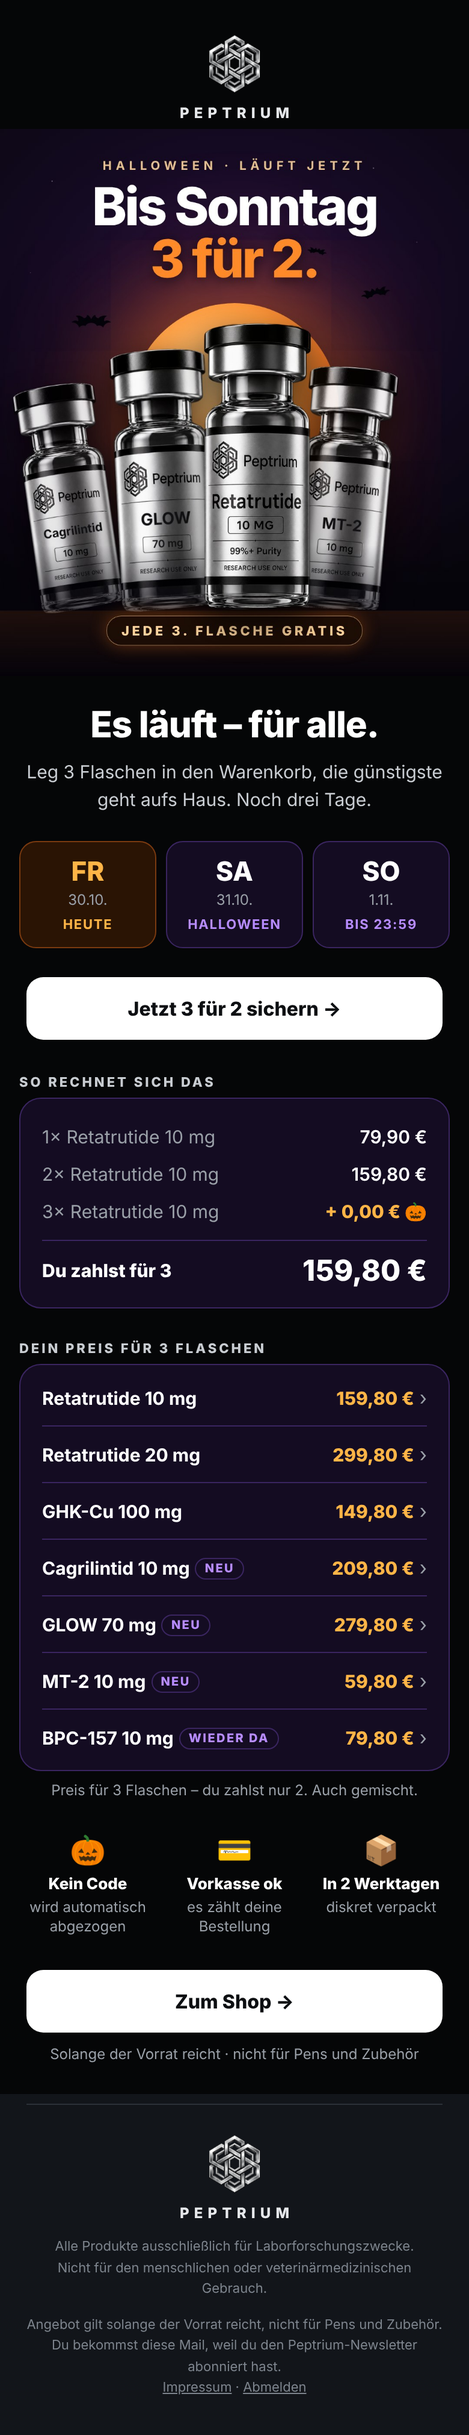
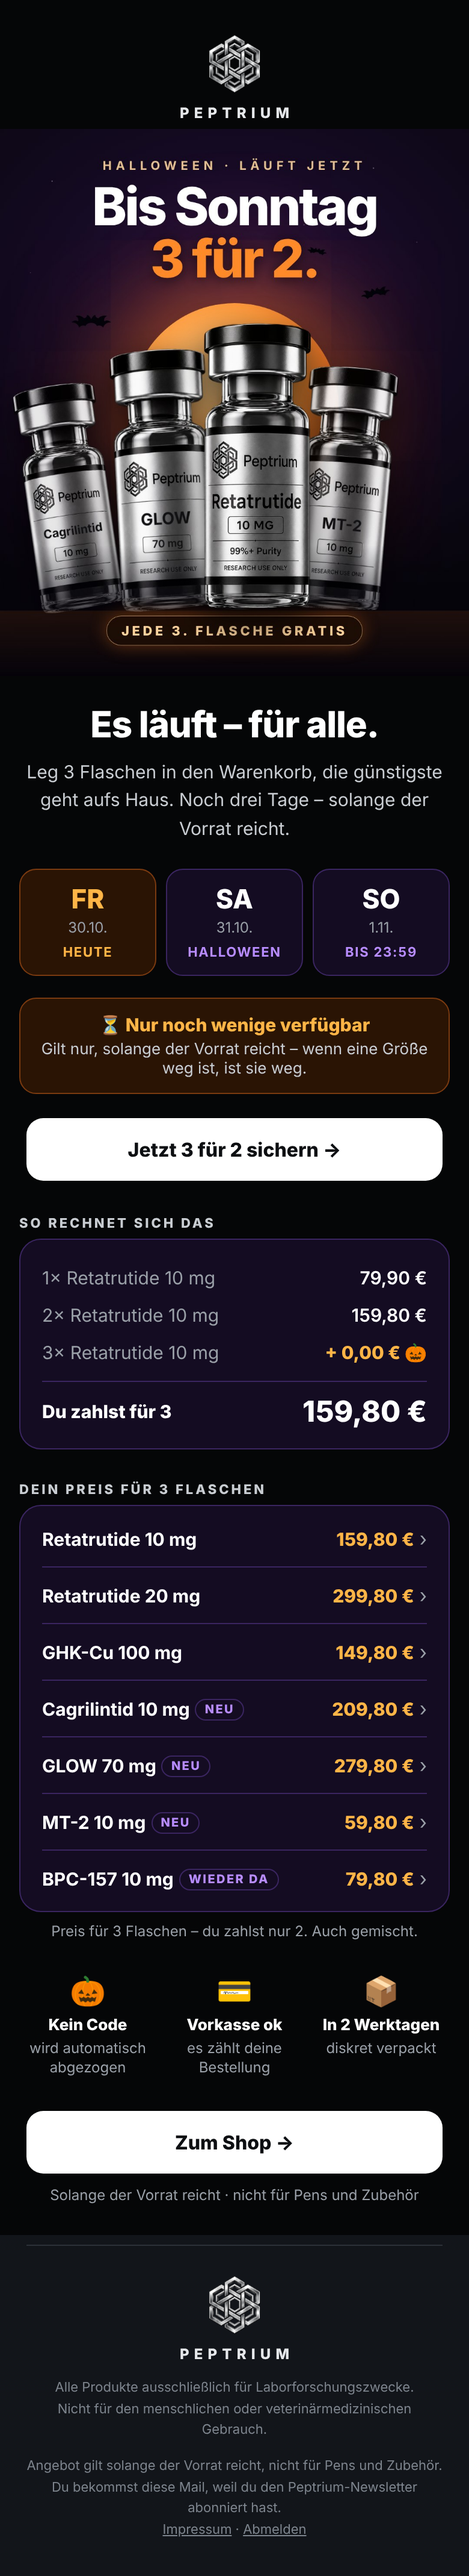
Halloween-Reminder: Vorrat-Hinweis ergaenzt
Claude-Session: https://claude.ai/code/session_011YY7DBkbr5BcFGKyLoSbVN

diff --git a/drafts/halloween-2026-10-22/mails/vorschau-jetzt.html b/drafts/halloween-2026-10-22/mails/vorschau-jetzt.html
@@ -1,1 +1,1 @@
-<!doctype html><html lang="de"><head><meta charset="utf-8"><meta name="viewport" content="width=device-width,initial-scale=1"></head><body style="margin:0;background:#050607;"><table role="presentation" width="100%" cellpadding="0" cellspacing="0" style="background:#050607;"><tr><td align="center" style="padding:0;"><table role="presentation" width="100%" cellpadding="0" cellspacing="0" style="max-width:600px;background:#050607;"><tr><td style="padding:26px 20px 6px;background:#050607;text-align:center;font-family:-apple-system,BlinkMacSystemFont,'Segoe UI',Inter,Helvetica,Arial,sans-serif;"><img src="https://peptrium.com/wp-content/uploads/2026/08/IMG_2644-cropped-300x300.png" width="54" height="54" alt="Peptrium" style="display:block;margin:0 auto;width:54px;height:54px;border:0;"><div style="font-size:12px;font-weight:800;letter-spacing:.34em;padding-left:.34em;color:#E6E8EB;margin-top:6px;">PEPTRIUM</div></td></tr><tr><td style="padding:0;line-height:0;background:#050607;"><a href="https://peptrium.com/alle-produkte/?utm_source=newsletter&utm_medium=email&utm_campaign=halloween-jetzt" style="display:block;line-height:0;"><img src="nl-hw5-jetzt.jpg" width="600" alt="Bis Sonntag: 3 für 2" style="display:block;width:100%;height:auto;border:0;"></a></td></tr><tr><td style="padding:24px 22px 4px;background:#050607;text-align:center;font-family:-apple-system,BlinkMacSystemFont,'Segoe UI',Inter,Helvetica,Arial,sans-serif;"><div style="font-size:30px;line-height:1.15;font-weight:800;color:#fff;letter-spacing:-.02em;text-align:center;">Es läuft – für alle.</div><div style="font-size:15px;line-height:1.55;color:#C9CDD2;text-align:center;margin-top:10px;">Leg 3 Flaschen in den Warenkorb, die günstigste geht aufs Haus. Noch drei Tage.</div></td></tr><tr><td style="padding:14px 12px 4px;background:#050607;text-align:left;font-family:-apple-system,BlinkMacSystemFont,'Segoe UI',Inter,Helvetica,Arial,sans-serif;"><table role="presentation" width="100%" cellpadding="0" cellspacing="0"><tr><td width="33%" style="width:33%;padding:4px;"><div style="background:#2A1404;border:1px solid #7A3A10;border-radius:14px;padding:12px 6px;text-align:center;font-family:-apple-system,BlinkMacSystemFont,'Segoe UI',Inter,Helvetica,Arial,sans-serif;"><div style="font-size:22px;font-weight:800;color:#FFB547;">FR</div><div style="font-size:12px;color:#9AA0A8;margin-top:2px;">30.10.</div><div style="font-size:11px;font-weight:700;letter-spacing:.08em;color:#FFB547;margin-top:6px;text-transform:uppercase;">heute</div></div></td><td width="33%" style="width:33%;padding:4px;"><div style="background:#140C22;border:1px solid #3A2560;border-radius:14px;padding:12px 6px;text-align:center;font-family:-apple-system,BlinkMacSystemFont,'Segoe UI',Inter,Helvetica,Arial,sans-serif;"><div style="font-size:22px;font-weight:800;color:#fff;">SA</div><div style="font-size:12px;color:#9AA0A8;margin-top:2px;">31.10.</div><div style="font-size:11px;font-weight:700;letter-spacing:.08em;color:#B78CFF;margin-top:6px;text-transform:uppercase;">Halloween</div></div></td><td width="33%" style="width:33%;padding:4px;"><div style="background:#140C22;border:1px solid #3A2560;border-radius:14px;padding:12px 6px;text-align:center;font-family:-apple-system,BlinkMacSystemFont,'Segoe UI',Inter,Helvetica,Arial,sans-serif;"><div style="font-size:22px;font-weight:800;color:#fff;">SO</div><div style="font-size:12px;color:#9AA0A8;margin-top:2px;">1.11.</div><div style="font-size:11px;font-weight:700;letter-spacing:.08em;color:#B78CFF;margin-top:6px;text-transform:uppercase;">bis 23:59</div></div></td></tr></table></td></tr><tr><td style="padding:16px 22px 6px;background:#050607;text-align:left;font-family:-apple-system,BlinkMacSystemFont,'Segoe UI',Inter,Helvetica,Arial,sans-serif;"><a href="https://peptrium.com/alle-produkte/?utm_source=newsletter&utm_medium=email&utm_campaign=halloween-jetzt" style="display:block;background:#FFFFFF;color:#0D0F12;text-align:center;text-decoration:none;font-family:-apple-system,BlinkMacSystemFont,'Segoe UI',Inter,Helvetica,Arial,sans-serif;font-size:16px;font-weight:800;padding:16px 18px;border-radius:14px;">Jetzt 3 für 2 sichern &rarr;</a></td></tr><tr><td style="padding:22px 16px 4px;background:#050607;text-align:left;font-family:-apple-system,BlinkMacSystemFont,'Segoe UI',Inter,Helvetica,Arial,sans-serif;"><div style="font-size:11px;font-weight:800;letter-spacing:.18em;color:#C9CDD2;margin-bottom:6px;">SO RECHNET SICH DAS</div><div style="background:#140C22;border:1px solid #3A2560;border-radius:18px;padding:16px 18px;"><table role="presentation" width="100%" cellpadding="0" cellspacing="0"><tr><td style="padding:6px 0;font-family:-apple-system,BlinkMacSystemFont,'Segoe UI',Inter,Helvetica,Arial,sans-serif;font-size:15px;color:#9AA0A8;">1× Retatrutide 10 mg</td><td align="right" style="padding:6px 0;font-family:-apple-system,BlinkMacSystemFont,'Segoe UI',Inter,Helvetica,Arial,sans-serif;font-size:15px;font-weight:600;color:#fff;white-space:nowrap;">79,90 €</td></tr><tr><td style="padding:6px 0;font-family:-apple-system,BlinkMacSystemFont,'Segoe UI',Inter,Helvetica,Arial,sans-serif;font-size:15px;color:#9AA0A8;">2× Retatrutide 10 mg</td><td align="right" style="padding:6px 0;font-family:-apple-system,BlinkMacSystemFont,'Segoe UI',Inter,Helvetica,Arial,sans-serif;font-size:15px;font-weight:600;color:#fff;white-space:nowrap;">159,80 €</td></tr><tr><td style="padding:6px 0;font-family:-apple-system,BlinkMacSystemFont,'Segoe UI',Inter,Helvetica,Arial,sans-serif;font-size:15px;color:#9AA0A8;">3× Retatrutide 10 mg</td><td align="right" style="padding:6px 0;font-family:-apple-system,BlinkMacSystemFont,'Segoe UI',Inter,Helvetica,Arial,sans-serif;font-size:15px;font-weight:800;color:#FFB547;white-space:nowrap;">+ 0,00 € 🎃</td></tr></table><div style="height:1px;background:#3A2560;margin:8px 0 10px;"></div><table role="presentation" width="100%" cellpadding="0" cellspacing="0"><tr><td style="font-family:-apple-system,BlinkMacSystemFont,'Segoe UI',Inter,Helvetica,Arial,sans-serif;font-size:15px;font-weight:800;color:#fff;">Du zahlst für 3</td><td align="right" style="font-family:-apple-system,BlinkMacSystemFont,'Segoe UI',Inter,Helvetica,Arial,sans-serif;font-size:24px;font-weight:800;color:#fff;">159,80 €</td></tr></table></div></td></tr><tr><td style="padding:22px 16px 4px;background:#050607;text-align:left;font-family:-apple-system,BlinkMacSystemFont,'Segoe UI',Inter,Helvetica,Arial,sans-serif;"><div style="font-size:11px;font-weight:800;letter-spacing:.18em;color:#C9CDD2;margin-bottom:6px;">DEIN PREIS FÜR 3 FLASCHEN</div><div style="background:#140C22;border:1px solid #3A2560;border-radius:18px;padding:4px 18px;"><table role="presentation" width="100%" cellpadding="0" cellspacing="0"><tr><td style="padding:13px 0;border-bottom:1px solid #3A2560;font-family:-apple-system,BlinkMacSystemFont,'Segoe UI',Inter,Helvetica,Arial,sans-serif;"><a href="https://peptrium.com/produkt/retatrutide/?attribute_volumen=10mg&utm_source=newsletter&utm_medium=email&utm_campaign=halloween-jetzt" style="text-decoration:none;font-size:15px;font-weight:700;color:#fff;">Retatrutide 10 mg</a></td><td align="right" style="padding:13px 0;border-bottom:1px solid #3A2560;font-family:-apple-system,BlinkMacSystemFont,'Segoe UI',Inter,Helvetica,Arial,sans-serif;white-space:nowrap;"><a href="https://peptrium.com/produkt/retatrutide/?attribute_volumen=10mg&utm_source=newsletter&utm_medium=email&utm_campaign=halloween-jetzt" style="text-decoration:none;font-size:15px;font-weight:800;color:#FFB547;">159,80 €</a> <span style="color:#9AA0A8;">›</span></td></tr><tr><td style="padding:13px 0;border-bottom:1px solid #3A2560;font-family:-apple-system,BlinkMacSystemFont,'Segoe UI',Inter,Helvetica,Arial,sans-serif;"><a href="https://peptrium.com/produkt/retatrutide/?attribute_volumen=20mg&utm_source=newsletter&utm_medium=email&utm_campaign=halloween-jetzt" style="text-decoration:none;font-size:15px;font-weight:700;color:#fff;">Retatrutide 20 mg</a></td><td align="right" style="padding:13px 0;border-bottom:1px solid #3A2560;font-family:-apple-system,BlinkMacSystemFont,'Segoe UI',Inter,Helvetica,Arial,sans-serif;white-space:nowrap;"><a href="https://peptrium.com/produkt/retatrutide/?attribute_volumen=20mg&utm_source=newsletter&utm_medium=email&utm_campaign=halloween-jetzt" style="text-decoration:none;font-size:15px;font-weight:800;color:#FFB547;">299,80 €</a> <span style="color:#9AA0A8;">›</span></td></tr><tr><td style="padding:13px 0;border-bottom:1px solid #3A2560;font-family:-apple-system,BlinkMacSystemFont,'Segoe UI',Inter,Helvetica,Arial,sans-serif;"><a href="https://peptrium.com/produkt/ghk-cu/?attribute_volumen=100mg&utm_source=newsletter&utm_medium=email&utm_campaign=halloween-jetzt" style="text-decoration:none;font-size:15px;font-weight:700;color:#fff;">GHK-Cu 100 mg</a></td><td align="right" style="padding:13px 0;border-bottom:1px solid #3A2560;font-family:-apple-system,BlinkMacSystemFont,'Segoe UI',Inter,Helvetica,Arial,sans-serif;white-space:nowrap;"><a href="https://peptrium.com/produkt/ghk-cu/?attribute_volumen=100mg&utm_source=newsletter&utm_medium=email&utm_campaign=halloween-jetzt" style="text-decoration:none;font-size:15px;font-weight:800;color:#FFB547;">149,80 €</a> <span style="color:#9AA0A8;">›</span></td></tr><tr><td style="padding:13px 0;border-bottom:1px solid #3A2560;font-family:-apple-system,BlinkMacSystemFont,'Segoe UI',Inter,Helvetica,Arial,sans-serif;"><a href="https://peptrium.com/produkt/cagrilintid/?utm_source=newsletter&utm_medium=email&utm_campaign=halloween-jetzt" style="text-decoration:none;font-size:15px;font-weight:700;color:#fff;">Cagrilintid 10 mg</a> <span style="font-size:10px;font-weight:800;letter-spacing:.12em;color:#B78CFF;border:1px solid #3A2560;border-radius:99px;padding:2px 7px;vertical-align:2px;">NEU</span></td><td align="right" style="padding:13px 0;border-bottom:1px solid #3A2560;font-family:-apple-system,BlinkMacSystemFont,'Segoe UI',Inter,Helvetica,Arial,sans-serif;white-space:nowrap;"><a href="https://peptrium.com/produkt/cagrilintid/?utm_source=newsletter&utm_medium=email&utm_campaign=halloween-jetzt" style="text-decoration:none;font-size:15px;font-weight:800;color:#FFB547;">209,80 €</a> <span style="color:#9AA0A8;">›</span></td></tr><tr><td style="padding:13px 0;border-bottom:1px solid #3A2560;font-family:-apple-system,BlinkMacSystemFont,'Segoe UI',Inter,Helvetica,Arial,sans-serif;"><a href="https://peptrium.com/produkt/glow/?utm_source=newsletter&utm_medium=email&utm_campaign=halloween-jetzt" style="text-decoration:none;font-size:15px;font-weight:700;color:#fff;">GLOW 70 mg</a> <span style="font-size:10px;font-weight:800;letter-spacing:.12em;color:#B78CFF;border:1px solid #3A2560;border-radius:99px;padding:2px 7px;vertical-align:2px;">NEU</span></td><td align="right" style="padding:13px 0;border-bottom:1px solid #3A2560;font-family:-apple-system,BlinkMacSystemFont,'Segoe UI',Inter,Helvetica,Arial,sans-serif;white-space:nowrap;"><a href="https://peptrium.com/produkt/glow/?utm_source=newsletter&utm_medium=email&utm_campaign=halloween-jetzt" style="text-decoration:none;font-size:15px;font-weight:800;color:#FFB547;">279,80 €</a> <span style="color:#9AA0A8;">›</span></td></tr><tr><td style="padding:13px 0;border-bottom:1px solid #3A2560;font-family:-apple-system,BlinkMacSystemFont,'Segoe UI',Inter,Helvetica,Arial,sans-serif;"><a href="https://peptrium.com/produkt/melanotan-2/?utm_source=newsletter&utm_medium=email&utm_campaign=halloween-jetzt" style="text-decoration:none;font-size:15px;font-weight:700;color:#fff;">MT-2 10 mg</a> <span style="font-size:10px;font-weight:800;letter-spacing:.12em;color:#B78CFF;border:1px solid #3A2560;border-radius:99px;padding:2px 7px;vertical-align:2px;">NEU</span></td><td align="right" style="padding:13px 0;border-bottom:1px solid #3A2560;font-family:-apple-system,BlinkMacSystemFont,'Segoe UI',Inter,Helvetica,Arial,sans-serif;white-space:nowrap;"><a href="https://peptrium.com/produkt/melanotan-2/?utm_source=newsletter&utm_medium=email&utm_campaign=halloween-jetzt" style="text-decoration:none;font-size:15px;font-weight:800;color:#FFB547;">59,80 €</a> <span style="color:#9AA0A8;">›</span></td></tr><tr><td style="padding:13px 0;font-family:-apple-system,BlinkMacSystemFont,'Segoe UI',Inter,Helvetica,Arial,sans-serif;"><a href="https://peptrium.com/produkt/bpc-157/?utm_source=newsletter&utm_medium=email&utm_campaign=halloween-jetzt" style="text-decoration:none;font-size:15px;font-weight:700;color:#fff;">BPC-157 10 mg</a> <span style="font-size:10px;font-weight:800;letter-spacing:.12em;color:#B78CFF;border:1px solid #3A2560;border-radius:99px;padding:2px 7px;vertical-align:2px;">WIEDER DA</span></td><td align="right" style="padding:13px 0;font-family:-apple-system,BlinkMacSystemFont,'Segoe UI',Inter,Helvetica,Arial,sans-serif;white-space:nowrap;"><a href="https://peptrium.com/produkt/bpc-157/?utm_source=newsletter&utm_medium=email&utm_campaign=halloween-jetzt" style="text-decoration:none;font-size:15px;font-weight:800;color:#FFB547;">79,80 €</a> <span style="color:#9AA0A8;">›</span></td></tr></table></div><div style="font-size:12px;color:#9AA0A8;text-align:center;margin-top:8px;font-family:-apple-system,BlinkMacSystemFont,'Segoe UI',Inter,Helvetica,Arial,sans-serif;">Preis für 3 Flaschen – du zahlst nur 2. Auch gemischt.</div></td></tr><tr><td style="padding:18px 12px 4px;background:#050607;text-align:left;font-family:-apple-system,BlinkMacSystemFont,'Segoe UI',Inter,Helvetica,Arial,sans-serif;"><table role="presentation" width="100%" cellpadding="0" cellspacing="0"><tr><td width="33%" valign="top" style="width:33%;padding:6px 4px;text-align:center;font-family:-apple-system,BlinkMacSystemFont,'Segoe UI',Inter,Helvetica,Arial,sans-serif;"><div style="font-size:24px;">🎃</div><div style="font-size:13px;font-weight:800;color:#fff;margin-top:6px;">Kein Code</div><div style="font-size:12px;color:#9AA0A8;margin-top:3px;line-height:1.35;">wird automatisch abgezogen</div></td><td width="33%" valign="top" style="width:33%;padding:6px 4px;text-align:center;font-family:-apple-system,BlinkMacSystemFont,'Segoe UI',Inter,Helvetica,Arial,sans-serif;"><div style="font-size:24px;">💳</div><div style="font-size:13px;font-weight:800;color:#fff;margin-top:6px;">Vorkasse ok</div><div style="font-size:12px;color:#9AA0A8;margin-top:3px;line-height:1.35;">es zählt deine Bestellung</div></td><td width="33%" valign="top" style="width:33%;padding:6px 4px;text-align:center;font-family:-apple-system,BlinkMacSystemFont,'Segoe UI',Inter,Helvetica,Arial,sans-serif;"><div style="font-size:24px;">📦</div><div style="font-size:13px;font-weight:800;color:#fff;margin-top:6px;">In 2 Werktagen</div><div style="font-size:12px;color:#9AA0A8;margin-top:3px;line-height:1.35;">diskret verpackt</div></td></tr></table></td></tr><tr><td style="padding:18px 22px 26px;background:#050607;text-align:left;font-family:-apple-system,BlinkMacSystemFont,'Segoe UI',Inter,Helvetica,Arial,sans-serif;"><a href="https://peptrium.com/alle-produkte/?utm_source=newsletter&utm_medium=email&utm_campaign=halloween-jetzt" style="display:block;background:#FFFFFF;color:#0D0F12;text-align:center;text-decoration:none;font-family:-apple-system,BlinkMacSystemFont,'Segoe UI',Inter,Helvetica,Arial,sans-serif;font-size:16px;font-weight:800;padding:16px 18px;border-radius:14px;">Zum Shop &rarr;</a><div style="font-size:12px;color:#9AA0A8;text-align:center;margin-top:10px;">Solange der Vorrat reicht · nicht für Pens und Zubehör</div></td></tr><tr><td style="padding:8px 22px 30px;background:#12151A;text-align:center;font-family:-apple-system,BlinkMacSystemFont,'Segoe UI',Inter,Helvetica,Arial,sans-serif;"><div style="height:1px;background:#2C3138;margin:0 0 22px;"></div><img src="https://peptrium.com/wp-content/uploads/2026/08/IMG_2644-cropped-300x300.png" width="54" height="54" alt="Peptrium" style="display:block;margin:0 auto;width:54px;height:54px;border:0;"><div style="font-size:12px;font-weight:800;letter-spacing:.34em;padding-left:.34em;color:#E6E8EB;margin-top:6px;">PEPTRIUM</div><div style="font-size:11px;color:#7D848D;margin-top:12px;line-height:1.6;">Alle Produkte ausschließlich für Laborforschungszwecke.<br>Nicht für den menschlichen oder veterinärmedizinischen Gebrauch.</div><div style="font-size:11px;color:#7D848D;margin-top:12px;line-height:1.6;">Angebot gilt solange der Vorrat reicht, nicht für Pens und Zubehör.<br>Du bekommst diese Mail, weil du den Peptrium-Newsletter abonniert hast. <br><a href="https://peptrium.com/impressum/" style="color:#7D848D;">Impressum</a> · <a href="#" style="color:#7D848D;">Abmelden</a></div></td></tr></table></td></tr></table></body></html>
+<!doctype html><html lang="de"><head><meta charset="utf-8"><meta name="viewport" content="width=device-width,initial-scale=1"></head><body style="margin:0;background:#050607;"><table role="presentation" width="100%" cellpadding="0" cellspacing="0" style="background:#050607;"><tr><td align="center" style="padding:0;"><table role="presentation" width="100%" cellpadding="0" cellspacing="0" style="max-width:600px;background:#050607;"><tr><td style="padding:26px 20px 6px;background:#050607;text-align:center;font-family:-apple-system,BlinkMacSystemFont,'Segoe UI',Inter,Helvetica,Arial,sans-serif;"><img src="https://peptrium.com/wp-content/uploads/2026/08/IMG_2644-cropped-300x300.png" width="54" height="54" alt="Peptrium" style="display:block;margin:0 auto;width:54px;height:54px;border:0;"><div style="font-size:12px;font-weight:800;letter-spacing:.34em;padding-left:.34em;color:#E6E8EB;margin-top:6px;">PEPTRIUM</div></td></tr><tr><td style="padding:0;line-height:0;background:#050607;"><a href="https://peptrium.com/alle-produkte/?utm_source=newsletter&utm_medium=email&utm_campaign=halloween-jetzt" style="display:block;line-height:0;"><img src="nl-hw5-jetzt.jpg" width="600" alt="Bis Sonntag: 3 für 2" style="display:block;width:100%;height:auto;border:0;"></a></td></tr><tr><td style="padding:24px 22px 4px;background:#050607;text-align:center;font-family:-apple-system,BlinkMacSystemFont,'Segoe UI',Inter,Helvetica,Arial,sans-serif;"><div style="font-size:30px;line-height:1.15;font-weight:800;color:#fff;letter-spacing:-.02em;text-align:center;">Es läuft – für alle.</div><div style="font-size:15px;line-height:1.55;color:#C9CDD2;text-align:center;margin-top:10px;">Leg 3 Flaschen in den Warenkorb, die günstigste geht aufs Haus. Noch drei Tage – solange der Vorrat reicht.</div></td></tr><tr><td style="padding:14px 12px 4px;background:#050607;text-align:left;font-family:-apple-system,BlinkMacSystemFont,'Segoe UI',Inter,Helvetica,Arial,sans-serif;"><table role="presentation" width="100%" cellpadding="0" cellspacing="0"><tr><td width="33%" style="width:33%;padding:4px;"><div style="background:#2A1404;border:1px solid #7A3A10;border-radius:14px;padding:12px 6px;text-align:center;font-family:-apple-system,BlinkMacSystemFont,'Segoe UI',Inter,Helvetica,Arial,sans-serif;"><div style="font-size:22px;font-weight:800;color:#FFB547;">FR</div><div style="font-size:12px;color:#9AA0A8;margin-top:2px;">30.10.</div><div style="font-size:11px;font-weight:700;letter-spacing:.08em;color:#FFB547;margin-top:6px;text-transform:uppercase;">heute</div></div></td><td width="33%" style="width:33%;padding:4px;"><div style="background:#140C22;border:1px solid #3A2560;border-radius:14px;padding:12px 6px;text-align:center;font-family:-apple-system,BlinkMacSystemFont,'Segoe UI',Inter,Helvetica,Arial,sans-serif;"><div style="font-size:22px;font-weight:800;color:#fff;">SA</div><div style="font-size:12px;color:#9AA0A8;margin-top:2px;">31.10.</div><div style="font-size:11px;font-weight:700;letter-spacing:.08em;color:#B78CFF;margin-top:6px;text-transform:uppercase;">Halloween</div></div></td><td width="33%" style="width:33%;padding:4px;"><div style="background:#140C22;border:1px solid #3A2560;border-radius:14px;padding:12px 6px;text-align:center;font-family:-apple-system,BlinkMacSystemFont,'Segoe UI',Inter,Helvetica,Arial,sans-serif;"><div style="font-size:22px;font-weight:800;color:#fff;">SO</div><div style="font-size:12px;color:#9AA0A8;margin-top:2px;">1.11.</div><div style="font-size:11px;font-weight:700;letter-spacing:.08em;color:#B78CFF;margin-top:6px;text-transform:uppercase;">bis 23:59</div></div></td></tr></table></td></tr><tr><td style="padding:10px 16px 4px;background:#050607;text-align:left;font-family:-apple-system,BlinkMacSystemFont,'Segoe UI',Inter,Helvetica,Arial,sans-serif;"><div style="background:#2A1404;border:1px solid #7A3A10;border-radius:14px;padding:12px 14px;text-align:center;font-family:-apple-system,BlinkMacSystemFont,'Segoe UI',Inter,Helvetica,Arial,sans-serif;"><div style="font-size:15px;font-weight:800;color:#FFB547;">⏳ Nur noch wenige verfügbar</div><div style="font-size:13px;color:#C9CDD2;margin-top:3px;">Gilt nur, solange der Vorrat reicht – wenn eine Größe weg ist, ist sie weg.</div></div></td></tr><tr><td style="padding:16px 22px 6px;background:#050607;text-align:left;font-family:-apple-system,BlinkMacSystemFont,'Segoe UI',Inter,Helvetica,Arial,sans-serif;"><a href="https://peptrium.com/alle-produkte/?utm_source=newsletter&utm_medium=email&utm_campaign=halloween-jetzt" style="display:block;background:#FFFFFF;color:#0D0F12;text-align:center;text-decoration:none;font-family:-apple-system,BlinkMacSystemFont,'Segoe UI',Inter,Helvetica,Arial,sans-serif;font-size:16px;font-weight:800;padding:16px 18px;border-radius:14px;">Jetzt 3 für 2 sichern &rarr;</a></td></tr><tr><td style="padding:22px 16px 4px;background:#050607;text-align:left;font-family:-apple-system,BlinkMacSystemFont,'Segoe UI',Inter,Helvetica,Arial,sans-serif;"><div style="font-size:11px;font-weight:800;letter-spacing:.18em;color:#C9CDD2;margin-bottom:6px;">SO RECHNET SICH DAS</div><div style="background:#140C22;border:1px solid #3A2560;border-radius:18px;padding:16px 18px;"><table role="presentation" width="100%" cellpadding="0" cellspacing="0"><tr><td style="padding:6px 0;font-family:-apple-system,BlinkMacSystemFont,'Segoe UI',Inter,Helvetica,Arial,sans-serif;font-size:15px;color:#9AA0A8;">1× Retatrutide 10 mg</td><td align="right" style="padding:6px 0;font-family:-apple-system,BlinkMacSystemFont,'Segoe UI',Inter,Helvetica,Arial,sans-serif;font-size:15px;font-weight:600;color:#fff;white-space:nowrap;">79,90 €</td></tr><tr><td style="padding:6px 0;font-family:-apple-system,BlinkMacSystemFont,'Segoe UI',Inter,Helvetica,Arial,sans-serif;font-size:15px;color:#9AA0A8;">2× Retatrutide 10 mg</td><td align="right" style="padding:6px 0;font-family:-apple-system,BlinkMacSystemFont,'Segoe UI',Inter,Helvetica,Arial,sans-serif;font-size:15px;font-weight:600;color:#fff;white-space:nowrap;">159,80 €</td></tr><tr><td style="padding:6px 0;font-family:-apple-system,BlinkMacSystemFont,'Segoe UI',Inter,Helvetica,Arial,sans-serif;font-size:15px;color:#9AA0A8;">3× Retatrutide 10 mg</td><td align="right" style="padding:6px 0;font-family:-apple-system,BlinkMacSystemFont,'Segoe UI',Inter,Helvetica,Arial,sans-serif;font-size:15px;font-weight:800;color:#FFB547;white-space:nowrap;">+ 0,00 € 🎃</td></tr></table><div style="height:1px;background:#3A2560;margin:8px 0 10px;"></div><table role="presentation" width="100%" cellpadding="0" cellspacing="0"><tr><td style="font-family:-apple-system,BlinkMacSystemFont,'Segoe UI',Inter,Helvetica,Arial,sans-serif;font-size:15px;font-weight:800;color:#fff;">Du zahlst für 3</td><td align="right" style="font-family:-apple-system,BlinkMacSystemFont,'Segoe UI',Inter,Helvetica,Arial,sans-serif;font-size:24px;font-weight:800;color:#fff;">159,80 €</td></tr></table></div></td></tr><tr><td style="padding:22px 16px 4px;background:#050607;text-align:left;font-family:-apple-system,BlinkMacSystemFont,'Segoe UI',Inter,Helvetica,Arial,sans-serif;"><div style="font-size:11px;font-weight:800;letter-spacing:.18em;color:#C9CDD2;margin-bottom:6px;">DEIN PREIS FÜR 3 FLASCHEN</div><div style="background:#140C22;border:1px solid #3A2560;border-radius:18px;padding:4px 18px;"><table role="presentation" width="100%" cellpadding="0" cellspacing="0"><tr><td style="padding:13px 0;border-bottom:1px solid #3A2560;font-family:-apple-system,BlinkMacSystemFont,'Segoe UI',Inter,Helvetica,Arial,sans-serif;"><a href="https://peptrium.com/produkt/retatrutide/?attribute_volumen=10mg&utm_source=newsletter&utm_medium=email&utm_campaign=halloween-jetzt" style="text-decoration:none;font-size:15px;font-weight:700;color:#fff;">Retatrutide 10 mg</a></td><td align="right" style="padding:13px 0;border-bottom:1px solid #3A2560;font-family:-apple-system,BlinkMacSystemFont,'Segoe UI',Inter,Helvetica,Arial,sans-serif;white-space:nowrap;"><a href="https://peptrium.com/produkt/retatrutide/?attribute_volumen=10mg&utm_source=newsletter&utm_medium=email&utm_campaign=halloween-jetzt" style="text-decoration:none;font-size:15px;font-weight:800;color:#FFB547;">159,80 €</a> <span style="color:#9AA0A8;">›</span></td></tr><tr><td style="padding:13px 0;border-bottom:1px solid #3A2560;font-family:-apple-system,BlinkMacSystemFont,'Segoe UI',Inter,Helvetica,Arial,sans-serif;"><a href="https://peptrium.com/produkt/retatrutide/?attribute_volumen=20mg&utm_source=newsletter&utm_medium=email&utm_campaign=halloween-jetzt" style="text-decoration:none;font-size:15px;font-weight:700;color:#fff;">Retatrutide 20 mg</a></td><td align="right" style="padding:13px 0;border-bottom:1px solid #3A2560;font-family:-apple-system,BlinkMacSystemFont,'Segoe UI',Inter,Helvetica,Arial,sans-serif;white-space:nowrap;"><a href="https://peptrium.com/produkt/retatrutide/?attribute_volumen=20mg&utm_source=newsletter&utm_medium=email&utm_campaign=halloween-jetzt" style="text-decoration:none;font-size:15px;font-weight:800;color:#FFB547;">299,80 €</a> <span style="color:#9AA0A8;">›</span></td></tr><tr><td style="padding:13px 0;border-bottom:1px solid #3A2560;font-family:-apple-system,BlinkMacSystemFont,'Segoe UI',Inter,Helvetica,Arial,sans-serif;"><a href="https://peptrium.com/produkt/ghk-cu/?attribute_volumen=100mg&utm_source=newsletter&utm_medium=email&utm_campaign=halloween-jetzt" style="text-decoration:none;font-size:15px;font-weight:700;color:#fff;">GHK-Cu 100 mg</a></td><td align="right" style="padding:13px 0;border-bottom:1px solid #3A2560;font-family:-apple-system,BlinkMacSystemFont,'Segoe UI',Inter,Helvetica,Arial,sans-serif;white-space:nowrap;"><a href="https://peptrium.com/produkt/ghk-cu/?attribute_volumen=100mg&utm_source=newsletter&utm_medium=email&utm_campaign=halloween-jetzt" style="text-decoration:none;font-size:15px;font-weight:800;color:#FFB547;">149,80 €</a> <span style="color:#9AA0A8;">›</span></td></tr><tr><td style="padding:13px 0;border-bottom:1px solid #3A2560;font-family:-apple-system,BlinkMacSystemFont,'Segoe UI',Inter,Helvetica,Arial,sans-serif;"><a href="https://peptrium.com/produkt/cagrilintid/?utm_source=newsletter&utm_medium=email&utm_campaign=halloween-jetzt" style="text-decoration:none;font-size:15px;font-weight:700;color:#fff;">Cagrilintid 10 mg</a> <span style="font-size:10px;font-weight:800;letter-spacing:.12em;color:#B78CFF;border:1px solid #3A2560;border-radius:99px;padding:2px 7px;vertical-align:2px;">NEU</span></td><td align="right" style="padding:13px 0;border-bottom:1px solid #3A2560;font-family:-apple-system,BlinkMacSystemFont,'Segoe UI',Inter,Helvetica,Arial,sans-serif;white-space:nowrap;"><a href="https://peptrium.com/produkt/cagrilintid/?utm_source=newsletter&utm_medium=email&utm_campaign=halloween-jetzt" style="text-decoration:none;font-size:15px;font-weight:800;color:#FFB547;">209,80 €</a> <span style="color:#9AA0A8;">›</span></td></tr><tr><td style="padding:13px 0;border-bottom:1px solid #3A2560;font-family:-apple-system,BlinkMacSystemFont,'Segoe UI',Inter,Helvetica,Arial,sans-serif;"><a href="https://peptrium.com/produkt/glow/?utm_source=newsletter&utm_medium=email&utm_campaign=halloween-jetzt" style="text-decoration:none;font-size:15px;font-weight:700;color:#fff;">GLOW 70 mg</a> <span style="font-size:10px;font-weight:800;letter-spacing:.12em;color:#B78CFF;border:1px solid #3A2560;border-radius:99px;padding:2px 7px;vertical-align:2px;">NEU</span></td><td align="right" style="padding:13px 0;border-bottom:1px solid #3A2560;font-family:-apple-system,BlinkMacSystemFont,'Segoe UI',Inter,Helvetica,Arial,sans-serif;white-space:nowrap;"><a href="https://peptrium.com/produkt/glow/?utm_source=newsletter&utm_medium=email&utm_campaign=halloween-jetzt" style="text-decoration:none;font-size:15px;font-weight:800;color:#FFB547;">279,80 €</a> <span style="color:#9AA0A8;">›</span></td></tr><tr><td style="padding:13px 0;border-bottom:1px solid #3A2560;font-family:-apple-system,BlinkMacSystemFont,'Segoe UI',Inter,Helvetica,Arial,sans-serif;"><a href="https://peptrium.com/produkt/melanotan-2/?utm_source=newsletter&utm_medium=email&utm_campaign=halloween-jetzt" style="text-decoration:none;font-size:15px;font-weight:700;color:#fff;">MT-2 10 mg</a> <span style="font-size:10px;font-weight:800;letter-spacing:.12em;color:#B78CFF;border:1px solid #3A2560;border-radius:99px;padding:2px 7px;vertical-align:2px;">NEU</span></td><td align="right" style="padding:13px 0;border-bottom:1px solid #3A2560;font-family:-apple-system,BlinkMacSystemFont,'Segoe UI',Inter,Helvetica,Arial,sans-serif;white-space:nowrap;"><a href="https://peptrium.com/produkt/melanotan-2/?utm_source=newsletter&utm_medium=email&utm_campaign=halloween-jetzt" style="text-decoration:none;font-size:15px;font-weight:800;color:#FFB547;">59,80 €</a> <span style="color:#9AA0A8;">›</span></td></tr><tr><td style="padding:13px 0;font-family:-apple-system,BlinkMacSystemFont,'Segoe UI',Inter,Helvetica,Arial,sans-serif;"><a href="https://peptrium.com/produkt/bpc-157/?utm_source=newsletter&utm_medium=email&utm_campaign=halloween-jetzt" style="text-decoration:none;font-size:15px;font-weight:700;color:#fff;">BPC-157 10 mg</a> <span style="font-size:10px;font-weight:800;letter-spacing:.12em;color:#B78CFF;border:1px solid #3A2560;border-radius:99px;padding:2px 7px;vertical-align:2px;">WIEDER DA</span></td><td align="right" style="padding:13px 0;font-family:-apple-system,BlinkMacSystemFont,'Segoe UI',Inter,Helvetica,Arial,sans-serif;white-space:nowrap;"><a href="https://peptrium.com/produkt/bpc-157/?utm_source=newsletter&utm_medium=email&utm_campaign=halloween-jetzt" style="text-decoration:none;font-size:15px;font-weight:800;color:#FFB547;">79,80 €</a> <span style="color:#9AA0A8;">›</span></td></tr></table></div><div style="font-size:12px;color:#9AA0A8;text-align:center;margin-top:8px;font-family:-apple-system,BlinkMacSystemFont,'Segoe UI',Inter,Helvetica,Arial,sans-serif;">Preis für 3 Flaschen – du zahlst nur 2. Auch gemischt.</div></td></tr><tr><td style="padding:18px 12px 4px;background:#050607;text-align:left;font-family:-apple-system,BlinkMacSystemFont,'Segoe UI',Inter,Helvetica,Arial,sans-serif;"><table role="presentation" width="100%" cellpadding="0" cellspacing="0"><tr><td width="33%" valign="top" style="width:33%;padding:6px 4px;text-align:center;font-family:-apple-system,BlinkMacSystemFont,'Segoe UI',Inter,Helvetica,Arial,sans-serif;"><div style="font-size:24px;">🎃</div><div style="font-size:13px;font-weight:800;color:#fff;margin-top:6px;">Kein Code</div><div style="font-size:12px;color:#9AA0A8;margin-top:3px;line-height:1.35;">wird automatisch abgezogen</div></td><td width="33%" valign="top" style="width:33%;padding:6px 4px;text-align:center;font-family:-apple-system,BlinkMacSystemFont,'Segoe UI',Inter,Helvetica,Arial,sans-serif;"><div style="font-size:24px;">💳</div><div style="font-size:13px;font-weight:800;color:#fff;margin-top:6px;">Vorkasse ok</div><div style="font-size:12px;color:#9AA0A8;margin-top:3px;line-height:1.35;">es zählt deine Bestellung</div></td><td width="33%" valign="top" style="width:33%;padding:6px 4px;text-align:center;font-family:-apple-system,BlinkMacSystemFont,'Segoe UI',Inter,Helvetica,Arial,sans-serif;"><div style="font-size:24px;">📦</div><div style="font-size:13px;font-weight:800;color:#fff;margin-top:6px;">In 2 Werktagen</div><div style="font-size:12px;color:#9AA0A8;margin-top:3px;line-height:1.35;">diskret verpackt</div></td></tr></table></td></tr><tr><td style="padding:18px 22px 26px;background:#050607;text-align:left;font-family:-apple-system,BlinkMacSystemFont,'Segoe UI',Inter,Helvetica,Arial,sans-serif;"><a href="https://peptrium.com/alle-produkte/?utm_source=newsletter&utm_medium=email&utm_campaign=halloween-jetzt" style="display:block;background:#FFFFFF;color:#0D0F12;text-align:center;text-decoration:none;font-family:-apple-system,BlinkMacSystemFont,'Segoe UI',Inter,Helvetica,Arial,sans-serif;font-size:16px;font-weight:800;padding:16px 18px;border-radius:14px;">Zum Shop &rarr;</a><div style="font-size:12px;color:#9AA0A8;text-align:center;margin-top:10px;">Solange der Vorrat reicht · nicht für Pens und Zubehör</div></td></tr><tr><td style="padding:8px 22px 30px;background:#12151A;text-align:center;font-family:-apple-system,BlinkMacSystemFont,'Segoe UI',Inter,Helvetica,Arial,sans-serif;"><div style="height:1px;background:#2C3138;margin:0 0 22px;"></div><img src="https://peptrium.com/wp-content/uploads/2026/08/IMG_2644-cropped-300x300.png" width="54" height="54" alt="Peptrium" style="display:block;margin:0 auto;width:54px;height:54px;border:0;"><div style="font-size:12px;font-weight:800;letter-spacing:.34em;padding-left:.34em;color:#E6E8EB;margin-top:6px;">PEPTRIUM</div><div style="font-size:11px;color:#7D848D;margin-top:12px;line-height:1.6;">Alle Produkte ausschließlich für Laborforschungszwecke.<br>Nicht für den menschlichen oder veterinärmedizinischen Gebrauch.</div><div style="font-size:11px;color:#7D848D;margin-top:12px;line-height:1.6;">Angebot gilt solange der Vorrat reicht, nicht für Pens und Zubehör.<br>Du bekommst diese Mail, weil du den Peptrium-Newsletter abonniert hast. <br><a href="https://peptrium.com/impressum/" style="color:#7D848D;">Impressum</a> · <a href="#" style="color:#7D848D;">Abmelden</a></div></td></tr></table></td></tr></table></body></html>

diff --git a/drafts/halloween-2026-10-22/mails/gen.py b/drafts/halloween-2026-10-22/mails/gen.py
@@ -164,8 +164,9 @@ def jetzt():
     return wrap(row(logo(), '26px 20px 6px', align='center')
         + f'<tr><td style="padding:0;line-height:0;background:{BG};"><a href="{shop}" style="display:block;line-height:0;"><img src="{E}nl-hw5-jetzt.jpg" width="600" alt="Bis Sonntag: 3 für 2" style="display:block;width:100%;height:auto;border:0;"></a></td></tr>'
         + row(f'<div style="font-size:30px;line-height:1.15;font-weight:800;color:#fff;letter-spacing:-.02em;text-align:center;">Es läuft – für alle.</div>'
-              f'<div style="font-size:15px;line-height:1.55;color:{LT};text-align:center;margin-top:10px;">Leg 3 Flaschen in den Warenkorb, die günstigste geht aufs Haus. Noch drei Tage.</div>', '24px 22px 4px', align='center')
+              f'<div style="font-size:15px;line-height:1.55;color:{LT};text-align:center;margin-top:10px;">Leg 3 Flaschen in den Warenkorb, die günstigste geht aufs Haus. Noch drei Tage – solange der Vorrat reicht.</div>', '24px 22px 4px', align='center')
         + row(days3(), '14px 12px 4px')
+        + row(f'<div style="background:#2A1404;border:1px solid #7A3A10;border-radius:14px;padding:12px 14px;text-align:center;font-family:{F};"><div style="font-size:15px;font-weight:800;color:{OR2};">⏳ Nur noch wenige verfügbar</div><div style="font-size:13px;color:{LT};margin-top:3px;">Gilt nur, solange der Vorrat reicht – wenn eine Größe weg ist, ist sie weg.</div></div>', '10px 16px 4px')
         + row(btnw('Jetzt 3 für 2 sichern', shop), '16px 22px 6px')
         + row(label('SO RECHNET SICH DAS') + calc(), '22px 16px 4px')
         + row(label('DEIN PREIS FÜR 3 FLASCHEN') + plist(c), '22px 16px 4px')
@@ -176,7 +177,7 @@ SUBJ = {
     'teaser': ('Donnerstag 18 Uhr: du bist früher dran 🎃', 'Jede 3. Flasche gratis – plus 3 neue Produkte.'),
     'early': ('Du bist drin 🎃', 'Jede 3. Flasche gratis – und die Neuheiten sind schon da.'),
     'letzte': ('Heute um Mitternacht ist Schluss', 'Danach wieder volle Preise.'),
-    'jetzt': ('Jetzt live: jede 3. Flasche gratis 🎃', 'Nur bis Sonntag 23:59 – plus 3 neue Produkte.'),
+    'jetzt': ('Jetzt live: jede 3. Flasche gratis 🎃', 'Nur bis Sonntag – und nur solange der Vorrat reicht.'),
     'morgen': ('Morgen 18 Uhr: dein früher Zugang 🎃', 'Jede 3. Flasche gratis – und 3 neue Produkte.'),
 }
 
